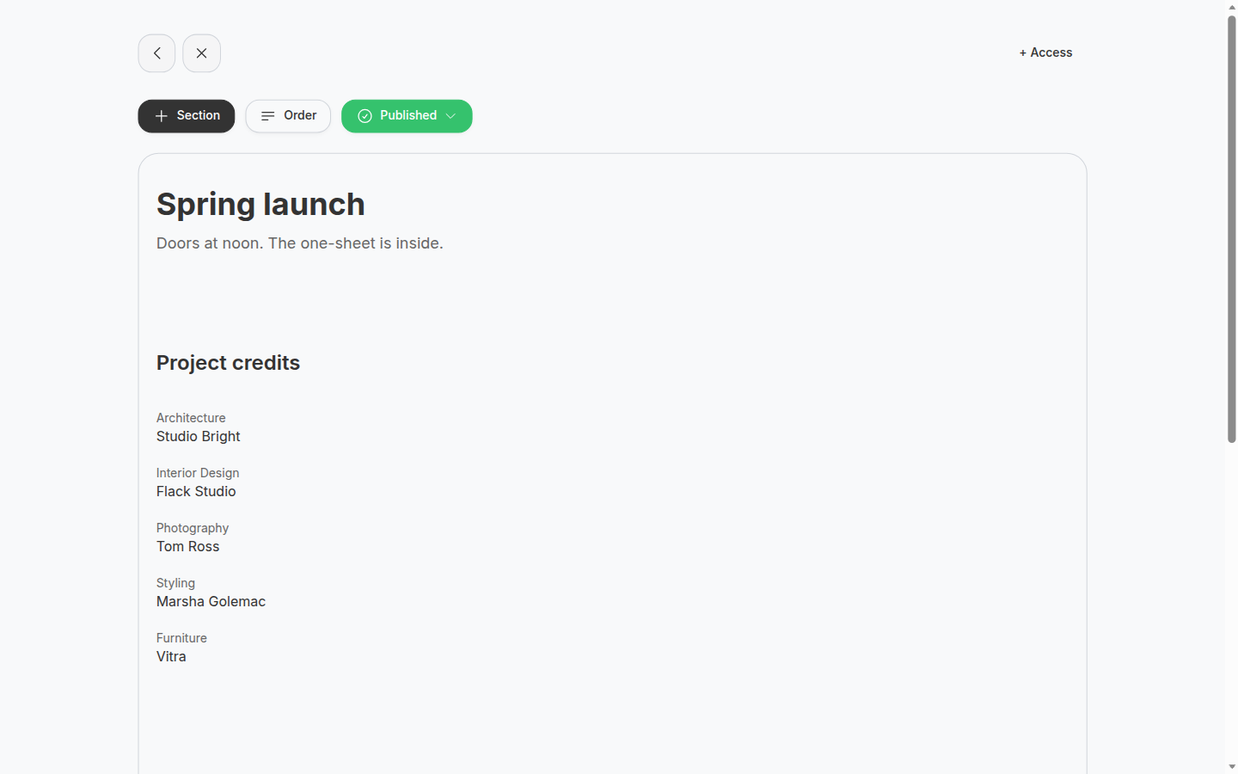
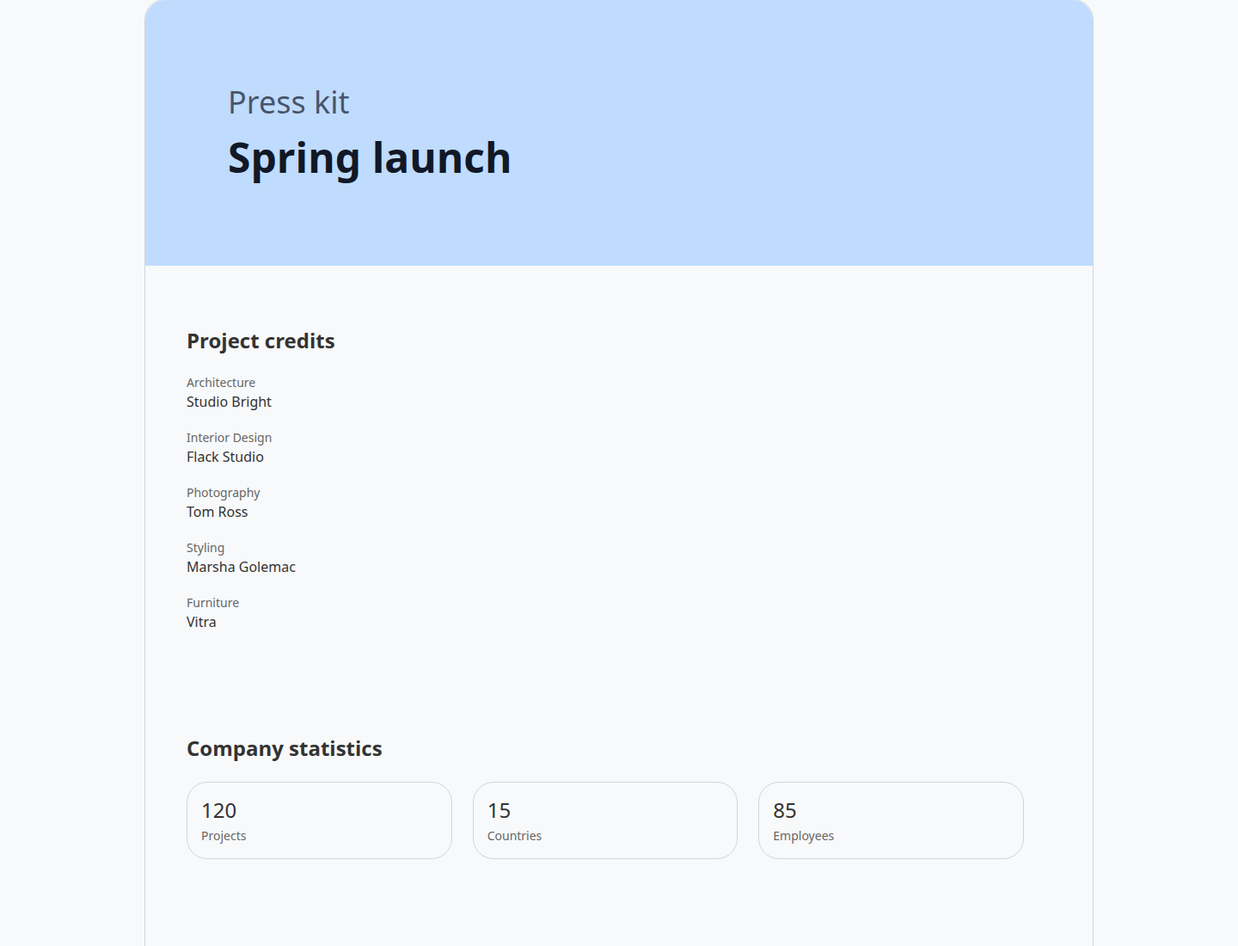
Kit header restyle: padding height, Press kit eyebrow (0.28.0)
Hero height from padding, Press kit eyebrow, no subtitle on the band. Flatpack 0.1.224.

diff --git a/test/recording_studio_presskits_test.rb b/test/recording_studio_presskits_test.rb
@@ -4,7 +4,7 @@ require "test_helper"
 
 class RecordingStudioPresskitsTest < Minitest::Test
   def test_version_matches_release
-    assert_equal "0.27.0", ::RecordingStudioPresskits::VERSION
+    assert_equal "0.28.0", ::RecordingStudioPresskits::VERSION
   end
 
   def test_engine_and_dummy_keep_header_text_title_and_images_heading_migrations
@@ -47,7 +47,7 @@ class RecordingStudioPresskitsTest < Minitest::Test
     assert_includes gemspec, 'spec.add_dependency "recording_studio_orderable", "~> 0.2"'
     assert_includes gemspec, 'spec.add_dependency "recording_studio_trashable", "~> 0.6"'
     assert_includes gemspec, 'spec.add_dependency "recording_studio_duplicatable", "~> 0.4"'
-    assert_includes gemspec, 'spec.add_dependency "flat_pack", ">= 0.1.223"'
+    assert_includes gemspec, 'spec.add_dependency "flat_pack", ">= 0.1.224"'
     assert_includes gemspec, 'spec.add_dependency "recording_studio_publishable", "~> 0.6"'
     assert_includes gemspec, 'spec.add_dependency "recording_studio_attachable", "~> 0.13"'
     assert_includes gemspec, 'spec.add_dependency "recording_studio_external_embed", "~> 0.1.1"'
@@ -63,7 +63,7 @@ class RecordingStudioPresskitsTest < Minitest::Test
     assert_includes gemfile, 'github: "bowerbird-app/RecordingStudio_accessible", tag: "v0.13.0"'
     assert_includes gemfile, 'github: "bowerbird-app/RecordingStudio_admin", tag: "v2.1.0"'
     assert_includes gemfile, 'github: "bowerbird-app/RecordingStudio_root_switchable", tag: "v0.6.0"'
-    assert_includes gemfile, 'github: "bowerbird-app/flatpack", tag: "v0.1.223"'
+    assert_includes gemfile, 'github: "bowerbird-app/flatpack", tag: "v0.1.224"'
     assert_includes gemfile, 'github: "bowerbird-app/RecordingStudio_orderable", tag: "v0.2.7"'
     assert_includes gemfile, 'github: "bowerbird-app/RecordingStudio_trashable", tag: "v0.6.0"'
     assert_includes gemfile, 'github: "bowerbird-app/RecordingStudio_duplicatable", tag: "v0.4.5"'
@@ -270,10 +270,11 @@ class RecordingStudioPresskitsTest < Minitest::Test
     assert_includes readme, "tag: \"v0.2.7\""
     assert_includes readme, "tag: \"v0.6.0\""
     assert_includes readme, "tag: \"v0.4.5\""
-    assert_includes readme, "tag: \"v0.1.223\""
+    assert_includes readme, "tag: \"v0.1.224\""
     assert_includes readme, "tag: \"v0.2.0\""
     assert_includes readme, 'gem "recording_studio_metrics", "~> 0.2"'
-    assert_includes readme, 'gem "flat_pack", ">= 0.1.223"'
+    assert_includes readme, 'gem "flat_pack", ">= 0.1.224"'
+    assert_includes readme, "size: :display"
     assert_includes readme, "FlatPack::Modal::Component"
     assert_includes readme, "navigable: true"
     assert_includes readme, "flat_pack_modal_screen"
@@ -437,19 +438,26 @@ class RecordingStudioPresskitsTest < Minitest::Test
     cover = File.read(File.expand_path("cover/component.rb", components))
     cover_html = File.read(File.expand_path("cover/component.html.erb", components))
     assert_includes cover, "9 / 16"
-    assert_includes cover, "21 / 9"
+    refute_includes cover, "21 / 9"
     assert_includes cover, "aspect-[9/16]"
-    assert_includes cover, "justify-start rounded-none p-8 md:p-12"
+    refute_includes cover, "aspect-[21/9]"
+    assert_includes cover, "justify-start rounded-none p-12 md:p-24"
     refute_includes cover, "justify-end rounded-none"
     assert_includes cover, "hero_copy_classes"
-    assert_includes cover, "max-w-2xl"
+    assert_includes cover, "max-w-3xl"
+    assert_includes cover, "recording_studio_presskits.cover.eyebrow"
     assert_includes cover_html, "<% if hero? %>"
     refute_includes cover_html.split("<% else %>").first, "FlatPack::Card::Component"
     assert_includes cover_html.split("<% else %>").first, "FlatPack::PageTitle::Component"
     assert_includes cover_html.split("<% else %>").first, "size: :display"
+    refute_includes cover_html.split("<% else %>").first, "subtitle: description"
+    assert_includes cover_html.split("<% else %>").first, "data-cover-eyebrow"
+    refute_includes cover_html.split("<% else %>").first, "--hero-headline-size"
     assert_includes cover_html, "hero_copy_classes"
     assert_includes cover_html, "--page-title-h1-size"
-    assert_includes cover_html, "variant: heading_variant"
+    locales = File.read(File.expand_path("../config/locales/recording_studio_presskits.en.yml", __dir__))
+    assert_includes locales, "cover:"
+    assert_includes locales, 'eyebrow: "Press kit"'
     refute_includes index, "card.media"
     refute_includes index, 'name: "photo"'
     refute_includes index, "presskits_cover_url_for"

diff --git a/test/dummy/test/integration/press_kit_cover_test.rb b/test/dummy/test/integration/press_kit_cover_test.rb
@@ -242,8 +242,9 @@ class PressKitCoverTest < ActionDispatch::IntegrationTest
     assert_select "#presskits-cover-hero h1", text: "Spring launch"
     assert_select "#presskits-cover-hero[data-cover-color='#059669']"
     assert_select "#presskits-cover-hero[data-cover-text-color='#111827']"
-    assert_select "#presskits-cover-hero[data-cover-ratio='21 / 9']"
-    assert_includes response.body, "Doors at noon."
+    assert_select "#presskits-cover-hero[data-cover-ratio='auto']"
+    assert_select "#presskits-cover-hero [data-cover-eyebrow]", text: "Press kit"
+    refute_includes css_select("#presskits-cover-hero").first.to_html, "Doors at noon."
     public_preview = css_select("#presskits-public-preview").first
     assert_includes public_preview["class"], "overflow-hidden"
     assert_includes public_preview["class"], "rounded-[var(--radius-lg)]"
@@ -251,14 +252,19 @@ class PressKitCoverTest < ActionDispatch::IntegrationTest
     assert_includes public_hero["class"], "rounded-none"
     assert_includes public_hero["class"], "justify-start"
     refute_includes public_hero["class"], "justify-end"
-    assert_includes public_hero["class"], "p-8"
-    assert_includes public_hero["class"], "md:p-12"
+    refute_includes public_hero["class"], "aspect-[21/9]"
+    assert_includes public_hero["class"], "p-12"
+    assert_includes public_hero["class"], "md:p-24"
     public_title = css_select("#presskits-cover-hero h1").first
     assert_includes public_title["class"], "fp-display"
     assert_includes public_title["class"], "fp-text-balance"
     assert_includes public_title["style"].to_s, "--display-size"
-    assert_includes css_select("#presskits-cover-hero > div").first["class"], "max-w-2xl"
-    assert_includes css_select("#presskits-cover-hero p").first["class"], "fp-text-pretty"
+    refute_includes public_title["style"].to_s, "--hero-headline-size"
+    refute_includes public_title["style"].to_s, "--page-title-h1-size"
+    assert_includes css_select("#presskits-cover-hero > div").first["class"], "max-w-3xl"
+    eyebrow = css_select("#presskits-cover-hero [data-cover-eyebrow]").first
+    assert_includes eyebrow["class"], "md:text-4xl"
+    assert_includes eyebrow["style"].to_s, "70%"
     public_sections = css_select("#presskits-public-sections").first
     refute_includes public_sections["class"], "gap-6"
     refute_includes public_sections["class"], "p-5"
@@ -274,10 +280,23 @@ class PressKitCoverTest < ActionDispatch::IntegrationTest
     assert_select "#presskits-cover-hero h1", text: "Spring launch"
     assert_select "#presskits-cover-hero[data-cover-color='#059669']"
     assert_select "#presskits-cover-hero[data-cover-text-color='#111827']"
-    assert_select "#presskits-cover-hero[data-cover-ratio='21 / 9']"
+    assert_select "#presskits-cover-hero[data-cover-ratio='auto']"
     preview = css_select("#presskits-public-preview").first
     assert_includes preview["class"], "overflow-hidden"
     assert_includes preview["class"], "rounded-[var(--radius-lg)]"
+  end
+
+  test "hosts can override the hero eyebrow" do
+    I18n.t("recording_studio_presskits.cover.eyebrow")
+    I18n.backend.store_translations(:en, recording_studio_presskits: { cover: { eyebrow: "Media kit" } })
+    kit = record_kit("Spring launch")
+    publish_kit!(kit)
+
+    get kit.publishable_public_path
+    assert_response :success
+    assert_select "#presskits-cover-hero [data-cover-eyebrow]", text: "Media kit"
+  ensure
+    I18n.backend.store_translations(:en, recording_studio_presskits: { cover: { eyebrow: "Press kit" } })
   end
 
   test "press kit payload reads resolved cover fields" do

diff --git a/test/dummy/test/integration/press_kit_publishable_test.rb b/test/dummy/test/integration/press_kit_publishable_test.rb
@@ -103,7 +103,7 @@ class PressKitPublishableTest < ActionDispatch::IntegrationTest
     refute_includes response.body, "See it live"
   end
 
-  test "public page and owner preview show a short description under the title" do
+  test "public page and owner preview show the eyebrow above the title" do
     kit = record_kit("Spring launch")
     @root.revise(kit) { |press_kit| press_kit.description = "Doors at noon." }
     kit.reload
@@ -115,9 +115,11 @@ class PressKitPublishableTest < ActionDispatch::IntegrationTest
     assert_blank_public_layout
     assert_select "#presskits-cover-hero h1", text: "Spring launch"
     assert_select "#presskits-cover-hero[data-cover-color='#1F2937']"
-    assert_includes css_select("#presskits-cover-hero").first.to_html, "Doors at noon."
-    assert_operator response.body.index("Spring launch"), :<, response.body.index("Doors at noon.")
-    assert_operator response.body.index("Doors at noon."), :<, response.body.index("Hero")
+    assert_select "#presskits-cover-hero [data-cover-eyebrow]", text: "Press kit"
+    refute_includes css_select("#presskits-cover-hero").first.to_html, "Doors at noon."
+    hero_html = css_select("#presskits-cover-hero").first.to_html
+    assert_operator hero_html.index("Press kit"), :<, hero_html.index("Spring launch")
+    assert_operator response.body.index("Spring launch"), :<, response.body.index("Hero")
 
     sign_in @user
     switch_to_root(@root)
@@ -125,7 +127,8 @@ class PressKitPublishableTest < ActionDispatch::IntegrationTest
     assert_response :success
     assert_rounded_default_layout
     assert_select "#presskits-cover-hero h1", text: "Spring launch"
-    assert_includes response.body, "Doors at noon."
+    assert_select "#presskits-cover-hero [data-cover-eyebrow]", text: "Press kit"
+    refute_includes css_select("#presskits-cover-hero").first.to_html, "Doors at noon."
     assert_includes response.body, "Hero"
   end
 

diff --git a/test/dummy/test/integration/press_kit_ui_test.rb b/test/dummy/test/integration/press_kit_ui_test.rb
@@ -819,7 +819,8 @@ class PressKitUiTest < ActionDispatch::IntegrationTest
     get recording_studio_presskits.edit_press_kit_path(kit)
     assert_response :success
     assert_select "h1", text: "Spring launch, take two"
-    assert_select "#presskits-kit-header", text: /Doors at noon/
+    assert_select "#presskits-kit-header [data-cover-eyebrow]", text: "Press kit"
+    refute_includes css_select("#presskits-kit-header").text, "Doors at noon"
     assert_select "#presskits-editor-preview", count: 1
     assert_select "#presskits-kit-header input", count: 0
   end
@@ -905,7 +906,7 @@ class PressKitUiTest < ActionDispatch::IntegrationTest
     assert_response :not_found
   end
 
-  test "a short description previews above the sections" do
+  test "the live header keeps the short description off the colour band" do
     kit = record_kit("Spring launch")
     @root.revise(kit) { |press_kit| press_kit.description = "Doors at noon." }
     record_block(kit, "Hero")
@@ -914,10 +915,11 @@ class PressKitUiTest < ActionDispatch::IntegrationTest
 
     get recording_studio_presskits.edit_press_kit_path(kit)
     assert_response :success
-    assert_select "#presskits-kit-header", text: /Doors at noon/
-    preview = css_select("#presskits-editor-preview").first
-    assert_operator preview.text.index("Doors at noon."), :<, preview.text.index("Hero")
+    assert_equal "Doors at noon.", kit.reload.recordable.description
+    assert_select "#presskits-kit-header [data-cover-eyebrow]", text: "Press kit"
+    refute_includes css_select("#presskits-kit-header").text, "Doors at noon"
     refute_includes css_select("#presskits-section-list").to_html, "Doors at noon."
+    assert_select "#presskits-editor-preview", text: /Hero/
   end
 
   test "unauthenticated visitors are sent to sign in" do

diff --git a/app/components/recording_studio_presskits/cover/component.rb b/app/components/recording_studio_presskits/cover/component.rb
@@ -70,13 +70,26 @@ module RecordingStudioPresskits
       end
 
       def cover_ratio
-        hero? ? "21 / 9" : "9 / 16"
+        hero? ? "auto" : "9 / 16"
+      end
+
+      def eyebrow
+        I18n.t("recording_studio_presskits.cover.eyebrow")
+      end
+
+      def eyebrow_classes
+        # Tailwind scans these literals: "text-3xl" "text-4xl"
+        "font-normal leading-tight text-3xl md:text-4xl"
+      end
+
+      def eyebrow_style
+        "color: color-mix(in oklab, #{text_color} 70%, transparent);"
       end
 
       def surface_classes
-        # Tailwind scans these literals: "aspect-[9/16]" "aspect-[21/9]" "max-w-xs" "justify-start" "max-w-2xl"
+        # Tailwind scans these literals: "aspect-[9/16]" "max-w-xs" "justify-start" "max-w-3xl" "p-12" "md:p-24"
         if hero?
-          "flex aspect-[21/9] min-h-64 w-full flex-col justify-start rounded-none p-8 md:p-12"
+          "flex w-full flex-col justify-start rounded-none p-12 md:p-24"
         elsif preview?
           "flex aspect-[9/16] w-full flex-col justify-end p-6"
         else
@@ -85,7 +98,7 @@ module RecordingStudioPresskits
       end
 
       def hero_copy_classes
-        "max-w-2xl"
+        "flex max-w-3xl flex-col gap-3"
       end
 
       def wrapper_classes
@@ -93,7 +106,9 @@ module RecordingStudioPresskits
       end
 
       def surface_style
-        "background-color: #{cover_color}; color: #{text_color}; aspect-ratio: #{cover_ratio};"
+        rules = ["background-color: #{cover_color}", "color: #{text_color}"]
+        rules << "aspect-ratio: #{cover_ratio}" unless hero?
+        "#{rules.join('; ')};"
       end
 
       def wrapper_id

diff --git a/test/dummy/test/integration/kit_editor_preview_test.rb b/test/dummy/test/integration/kit_editor_preview_test.rb
@@ -61,15 +61,16 @@ class KitEditorPreviewTest < ActionDispatch::IntegrationTest
     assert_includes hero["class"], "rounded-none"
     assert_includes hero["class"], "justify-start"
     refute_includes hero["class"], "justify-end"
-    assert_includes hero["class"], "p-8"
-    assert_includes hero["class"], "md:p-12"
+    refute_includes hero["class"], "aspect-[21/9]"
+    assert_includes hero["class"], "p-12"
+    assert_includes hero["class"], "md:p-24"
     hero_title = css_select("#presskits-cover-hero h1").first
     assert_includes hero_title["class"], "fp-display"
     assert_includes hero_title["class"], "fp-text-balance"
     assert_includes hero_title["style"].to_s, "--display-size"
-    assert_includes hero_title["style"].to_s, "--display-tracking"
-    assert_includes hero_title["style"].to_s, "--display-leading"
-    assert_includes css_select("#presskits-cover-hero > div").first["class"], "max-w-2xl"
+    refute_includes hero_title["style"].to_s, "--hero-headline-size"
+    assert_includes css_select("#presskits-cover-hero > div").first["class"], "max-w-3xl"
+    assert_select "#presskits-cover-hero [data-cover-eyebrow]", text: "Press kit"
     sections = css_select("#presskits-editor-sections").first
     assert_includes sections["class"], "flex"
     refute_includes sections["class"], "p-5"

diff --git a/lib/recording_studio_presskits/version.rb b/lib/recording_studio_presskits/version.rb
@@ -1,5 +1,5 @@
 # frozen_string_literal: true
 
 module RecordingStudioPresskits
-  VERSION = "0.27.0"
+  VERSION = "0.28.0"
 end

diff --git a/README.md b/README.md
@@ -21,7 +21,7 @@ gem "recording_studio_attachable", github: "bowerbird-app/RecordingStudio_attach
 gem "recording_studio_external_embed", github: "bowerbird-app/RecordingStudio_external_embed", tag: "v0.1.4"
 gem "recording_studio_video", github: "bowerbird-app/RecordingStudio_video", tag: "v0.1.1"
 gem "recording_studio_metrics", github: "bowerbird-app/RecordingStudio_metrics", tag: "v0.2.0"
-gem "flat_pack", github: "bowerbird-app/flatpack", tag: "v0.1.223"
+gem "flat_pack", github: "bowerbird-app/flatpack", tag: "v0.1.224"
 gem "recording_studio_presskits", github: "bowerbird-app/RecordingStudio_presskits"
 ```
 
@@ -38,7 +38,7 @@ gem "recording_studio_attachable", "~> 0.13"
 gem "recording_studio_external_embed", "~> 0.1.1"
 gem "recording_studio_video", "~> 0.1.0"
 gem "recording_studio_metrics", "~> 0.2"
-gem "flat_pack", ">= 0.1.223"
+gem "flat_pack", ">= 0.1.224"
 ```
 
 Then:
@@ -151,7 +151,7 @@ kit_recording.log_event!(action: "noted")
 
 The header is the press kit. `title` is required. `description` is an optional short line, 280 characters at most, and a blank one is stored as nothing. The cover is also on the kit: `cover_style` is `color` for now (`nil` means colour with the default), `cover_color` is a hex string, and `cover_text_color` is an optional hex for the title and description. A blank colour uses `default_cover_color` (`#1F2937`). A blank text colour uses Auto: light or dark, whichever has the better WCAG contrast on that background. Hosts set `cover_colors` and `cover_text_colors` to a palette, or `:any` for any hex. `cover_text_auto` (default true) adds an Auto choice on the header screen. Writes must be a valid hex, and in palette mode they must be one of those colours. A stored colour that later leaves the palette still renders. A low-contrast pair is allowed; the editor may hint. The cover is not a child, so it cannot be trashed or reordered. The kit editor lists Header and links to the header screen, which saves title, description, and cover with `revise`. Creating a kit still sets the title only.
 
-`RecordingStudioPresskits::Cover::Component` is the reusable card. Pass a kit recording or the title, description, colour, and text colour. Sizes are `:card` (9/16 story tile, title overlaid, description clamped to two lines), `:preview` (same story shape in the header editor), and `:hero` (full-width 21/9 band at the top of the public kit and the live editor). A 9/16 hero at full kit width would bury the sections under a storey of colour, so the public page stays wide. Hero copy sits at the top of that band (`justify-start`) with `p-8 md:p-12` as the inset. The title is `FlatPack::PageTitle::Component` with `size: :display` and the cover text colours, wrapped in `max-w-2xl`. Display uses `--display-size` (about 48px on a phone to 72px on a desktop), `--display-tracking`, and `--display-leading`. The description keeps `fp-text-pretty`. The band stays 21/9 with `min-h-64` so the colour field remains a masthead under the type. Grid cards share the 9/16 height and keep the page-title size token. Text colour is the chosen hex, or Auto.
+`RecordingStudioPresskits::Cover::Component` is the reusable card. Pass a kit recording or the title, description, colour, and text colour. Sizes are `:card` (9/16 story tile, title overlaid, description clamped to two lines), `:preview` (same story shape in the header editor), and `:hero` (full-width colour header at the top of the public kit and the live editor). Hero height comes from padding plus content (`p-12` on a phone, `md:p-24` on a desktop), not a fixed ratio. A muted **Press kit** eyebrow sits above the title (`recording_studio_presskits.cover.eyebrow`). The title is `FlatPack::PageTitle::Component` with `size: :display`, top-left, wrapping in `max-w-3xl`. The hero does not show the short description; cards and the header editor still do. Grid cards stay 9/16. Text colour is the chosen hex, or Auto.
 
 Create a section with `RecordingStudioPresskits.create_section!`. That call records a kit section under the kit, then records the chosen content type under the kit section, in one transaction. A failed content write leaves no kit section behind. Title and subtitle belong to the kit section. A content default belongs to the registered `prepare` hook.
 
@@ -262,7 +262,7 @@ Primary buttons: **Presskit** (Heroicons plus) on the index, **Create** on the n
 
 ## Public
 
-A live kit is readable without signing in. Publishable serves `/published/:uuid/:slug` (override the path only if it still includes `:uuid`). `.to` sets `public_layout: "recording_studio_presskits/blank"`. That layout is a document and the kit: no back, no close, and no TopNav. The page title is the kit name. The kit opens inside the same Flatpack Card as the editor. `Cover::Component` at `:hero` is a flush 21/9 colour band to the card's top and side edges. Title and description sit at the top with `p-8 md:p-12` as `PageTitle` `size: :display` in a `max-w-2xl` block. View and the publish menu Preview both use it. Owner preview stays on `recording_studio/default_layout`.
+A live kit is readable without signing in. Publishable serves `/published/:uuid/:slug` (override the path only if it still includes `:uuid`). `.to` sets `public_layout: "recording_studio_presskits/blank"`. That layout is a document and the kit: no back, no close, and no TopNav. The page title is the kit name. The kit opens inside the same Flatpack Card as the editor. `Cover::Component` at `:hero` is a flush colour header to the card's top and side edges. Height comes from `p-12 md:p-24` plus the eyebrow and title. The title is `PageTitle` `size: :display` in a wrapping `max-w-3xl` block. The short description stays off that band. View and the publish menu Preview both use it. Owner preview stays on `recording_studio/default_layout`.
 
 Logged-out visitors get a 404 for a kit that is not currently published. An authenticated owner can still open the owner preview on the default layout.
 
@@ -311,7 +311,7 @@ Dummy kit pins:
 | Accessible | `v0.13.0` |
 | Admin | `v2.1.0` |
 | Root Switchable | `v0.6.0` |
-| FlatPack | `v0.1.223` |
+| FlatPack | `v0.1.224` |
 | Attachable | `v0.13.0` |
 | Orderable | `v0.2.7` |
 | Trashable | `v0.6.0` |
@@ -323,7 +323,7 @@ Dummy kit pins:
 
 Authenticated dummy screens keep `RecordingStudio::UsesDefaultLayout`. Core 4.4 puts `data-theme` on `<body>`; dummy overrides `layouts/recording_studio/default_layout` so `<html data-theme="rounded">` wraps index, the kit editor, owner preview, and Admin. That is Flatpack's built-in rounded theme from `flat_pack/variables` — not a custom theme. The override also links `flat_pack/application`, which paints primary and default buttons. The sign-in layout and the public blank layout link that sheet too. The same override passes Flatpack `anchor_href` for the close X. The layout draws one back control. A screen that sets a back URL gets that link. A screen that does not gets PageNav's history button. Core still stores the close path in `page_nav_anchor_url` and the back path in `page_nav_back_url`. After sign-in, `/` redirects to the press kit index. Dummy Tailwind scans FlatPack, Recording Studio, Admin, Publishable, Attachable, and this gem so that layout is not an unstyled box.
 
-The public kit view uses `recording_studio_presskits/blank` instead. Do not use Publishable's empty TopNav there. Do not insert Sign in, Sign out, or Root Switchable into PageNav. Core owns back and close on the default layout. **+ Access** is in the slot on the kit editor only. Cards, table, the kit editor, the header screen, public show, owner preview, and Admin live in `docs/dummy-screenshots/`. After seed: `press-kit-index-cards.png`, `press-kit-index-table.png`, `workspace-kit-edit.png`, `workspace-heading-edit.png`, `workspace-content-edit.png`, `workspace-fact-drilldown.png`, `workspace-header-edit.png`, `workspace-kit-show.png`, `public-press-kit-show.png` (logged-out Spring launch), `owner-preview-unpublished.png` (owner preview of Autumn recap), and `admin-press-kits.png` (live vs not-live). Do not recapture dummy home.
+The public kit view uses `recording_studio_presskits/blank` instead. Do not use Publishable's empty TopNav there. Do not insert Sign in, Sign out, or Root Switchable into PageNav. Core owns back and close on the default layout. **+ Access** is in the slot on the kit editor only. Cards, table, the kit editor, the header screen, public show, owner preview, and Admin live in `docs/dummy-screenshots/`. After seed: `press-kit-index-cards.png`, `press-kit-index-table.png`, `workspace-kit-edit.png`, `workspace-kit-edit-mobile.png`, `workspace-heading-edit.png`, `workspace-content-edit.png`, `workspace-fact-drilldown.png`, `workspace-header-edit.png`, `workspace-kit-show.png`, `public-press-kit-show.png` and `public-press-kit-show-mobile.png` (logged-out Spring launch), `hero-restyle-editor-desktop.png` / `hero-restyle-public-desktop.png` plus mobile and crop companions, `owner-preview-unpublished.png` (owner preview of Autumn recap), and `admin-press-kits.png` (live vs not-live). Do not recapture dummy home.
 
 ```bash
 cd test/dummy

diff --git a/test/dummy/README.md b/test/dummy/README.md
@@ -10,8 +10,8 @@ This Rails app exists to prove Recording Studio Press Kits in a real host. It is
 - Orderable, Trashable, Duplicatable, and Publishable install, migrations, and mounts
 - Recording Studio Admin 2.0 mounted under an admin root, with Accessible grants for the seeded admin
 - Authenticated `/` redirects to the press kit index on Recording Studio's default layout
-- Cards and table views of kits, inside a sidebar. The heading is **My presskits**. **Presskit** with a Heroicons plus icon is first and left. Cards vs table is icon-only Flatpack ButtonGroup. Library is a collapsible group in the sidebar, and Credits is the link under it. Cards are `Cover::Component` at `:card`: a 9/16 colour tile with a large title on the colour. A short description, when present, clamps to two lines. Cards stay the same height. Cards and the table open the kit editor. That page is the live kit, full width, inside a card. The kit header is the colour cover. A slim toolbar holds Section, Order, and the publish control. The colour cover bleeds to the kit card: flush top and sides, no inner rounding, clipped by the card radius. Title and description sit at the top of the hero with the existing inset; the title is PageTitle display size. The card has no inner section pad or gap. Each section owns `p-8 md:p-10 lg:p-12`; hover tint is flush to the card sides with square corners. Phone padding stays `p-8`. Header hover is an overlay on the cover, not a surrounding tint. The plus FAB uses `offset: "1rem"` and sits inside the cover on the header. On a phone, a tap makes that region active and shows the plus FAB. Tapping another region moves it. Tapping outside clears it. The FAB opens Edit title, Edit content, Reorder, Trash, and Add new section — or Edit heading and Cover colours on the header. Those editors open one navigable Flatpack modal (`pk-editor`). The header modal has Title, Short description, Colour, and Text colour. Palette colours are round Flatpack swatches. Auto sits beside the text-colour swatches. A live cover preview follows those picks. Child items such as facts and quotes push further screens in that modal. Section opens a list of types and creates the chosen block at once. Empty sections show an Add placeholder. Order opens Reorder, which drags through Orderable. There is no in-page View or Preview button. Publishable's menu still has View and Preview
-- Logged-out public show of a live kit on the blank public layout (no page nav). The kit opens inside the same card as the editor. `Cover::Component` at `:hero` is a flush 21/9 colour band to the card's top and side edges. Title and description sit at the top as PageTitle display size in a wrapping block
+- Cards and table views of kits, inside a sidebar. The heading is **My presskits**. **Presskit** with a Heroicons plus icon is first and left. Cards vs table is icon-only Flatpack ButtonGroup. Library is a collapsible group in the sidebar, and Credits is the link under it. Cards are `Cover::Component` at `:card`: a 9/16 colour tile with a large title on the colour. A short description, when present, clamps to two lines. Cards stay the same height. Cards and the table open the kit editor. That page is the live kit, full width, inside a card. The kit header is the colour cover. A slim toolbar holds Section, Order, and the publish control. The colour cover bleeds to the kit card: flush top and sides, no inner rounding, clipped by the card radius. Height comes from `p-12 md:p-24` plus a muted Press kit eyebrow and a wrapping `PageTitle` `size: :display` title. The short description stays on the header form, not on the hero. The card has no inner section pad or gap. Each section owns `p-8 md:p-10 lg:p-12`; hover tint is flush to the card sides with square corners. Phone padding stays `p-8`. Header hover is an overlay on the cover, not a surrounding tint. The plus FAB uses `offset: "1rem"` and sits inside the cover on the header. On a phone, a tap makes that region active and shows the plus FAB. Tapping another region moves it. Tapping outside clears it. The FAB opens Edit title, Edit content, Reorder, Trash, and Add new section — or Edit heading and Cover colours on the header. Those editors open one navigable Flatpack modal (`pk-editor`). The header modal has Title, Short description, Colour, and Text colour. Palette colours are round Flatpack swatches. Auto sits beside the text-colour swatches. A live cover preview follows those picks. Child items such as facts and quotes push further screens in that modal. Section opens a list of types and creates the chosen block at once. Empty sections show an Add placeholder. Order opens Reorder, which drags through Orderable. There is no in-page View or Preview button. Publishable's menu still has View and Preview
+- Logged-out public show of a live kit on the blank public layout (no page nav). The kit opens inside the same card as the editor. `Cover::Component` at `:hero` is a flush colour header to the card's top and side edges. Height comes from padding plus a muted Press kit eyebrow and a wrapping `PageTitle` `size: :display` title. The short description stays off that band
 - Owner preview of a kit that is not live, on the default layout. **+ Access** is on the kit editor only
 - Section offers Text, Images, Quotes, Credits, and Video, each with a Heroicon and a short line on why that block helps a press kit. Heading editing is one shared screen titled Section heading: Title, Subtitle, and Update. A new section starts with that type's label as the title. Content editors only edit their own data. Body has its own Update. A Credits section uses a collection editor to search for a credit or create one, and to set that credit's role on the kit. Video opens a screen for one video link. YouTube ships with External Embed. Press Kits does not register Vimeo. The Text field is the FlatPack content editor. Dummy FakeBlock is a registered section that stays off the add list
 - Mounted `RecordingStudio::Engine` route behavior inside a host app

diff --git a/CHANGELOG.md b/CHANGELOG.md
@@ -7,6 +7,18 @@ and this project adheres to [Semantic Versioning](https://semver.org/spec/v2.0.0
 
 ## [Unreleased]
 
+## [0.28.0] - 2026-10-10
+
+### Changed
+- The `:hero` cover no longer uses a fixed 21/9 band. Height comes from padding plus content: `p-12` on a phone and `md:p-24` (~96px) on a desktop. Grid `:card` and header-editor `:preview` stay 9/16.
+- A muted **Press kit** eyebrow sits above the title (`recording_studio_presskits.cover.eyebrow`). Hosts override that i18n key. Size is `text-3xl` / `md:text-4xl` (~36px desktop). Colour is `color-mix` at 70% of the cover text colour. Flatpack `PageTitle` has no eyebrow slot, so this is a semantic `<p>` with those tokens.
+- The hero no longer shows the kit short description. The field, column, header editor, API payload, and 9/16 cards keep it.
+- Hero title is `FlatPack::PageTitle::Component` with `size: :display`, top-left, wrapping in `max-w-3xl`. Display uses `--display-size` (`clamp` 48px to 88px), `--display-leading` `1.05`, `--display-tracking` `-0.03em`, and `--display-weight` `600`. Flatpack is `>= 0.1.224` (dummy tag `v0.1.224`).
+- Version `0.28.0`
+
+### Upgrade notes
+- Bump Flatpack to `>= 0.1.224` and rebuild Tailwind so `text-8xl` generates. Reload Flatpack CSS for the 88px `--display-size` clamp. Hosts that replaced `Cover::Component` at `:hero` should drop `aspect-[21/9]` / `min-h-64`, use `p-12 md:p-24`, render the i18n eyebrow above `PageTitle` `size: :display` (no subtitle on the band), and keep the short description on the header form and on cards.
+
 ## [0.27.0] - 2026-10-10
 
 ### Changed
@@ -638,7 +650,8 @@ Addon starting point on Recording Studio 4.x, before this repo became Press Kits
 - Comprehensive README and documentation
 - Basic test suite with Minitest
 
-[Unreleased]: https://github.com/bowerbird-app/RecordingStudio_presskits/compare/v0.27.0...HEAD
+[Unreleased]: https://github.com/bowerbird-app/RecordingStudio_presskits/compare/v0.28.0...HEAD
+[0.28.0]: https://github.com/bowerbird-app/RecordingStudio_presskits/compare/v0.27.0...v0.28.0
 [0.27.0]: https://github.com/bowerbird-app/RecordingStudio_presskits/compare/v0.26.1...v0.27.0
 [0.26.1]: https://github.com/bowerbird-app/RecordingStudio_presskits/compare/v0.26.0...v0.26.1
 [0.26.0]: https://github.com/bowerbird-app/RecordingStudio_presskits/compare/v0.25.0...v0.26.0

diff --git a/MIGRATION_NOTES.md b/MIGRATION_NOTES.md
@@ -1,5 +1,15 @@
 # Upgrade notes
 
+## 0.28.0
+
+The `:hero` cover is still a flush colour surface to the kit card's top and side edges. Height now comes from padding plus content: `p-12` on a phone, `md:p-24` (~96px) on a desktop. There is no 21/9 ratio and no `min-h-64`. Grid `:card` and the header-editor `:preview` stay 9/16.
+
+A muted **Press kit** eyebrow sits above the title. The copy is `I18n.t("recording_studio_presskits.cover.eyebrow")` so a host can override it. Size is `text-3xl` / `md:text-4xl`. Colour is `color-mix(in oklab, <text colour> 70%, transparent)`. Flatpack `PageTitle` has no eyebrow or kicker slot, so the hero renders a semantic `<p>` with those tokens rather than a custom component.
+
+The hero does not show the kit short description. Keep the field on the header screen, in the table, on the API payload, and on 9/16 cards. Title stays top-left and wraps as `FlatPack::PageTitle::Component` with `size: :display` in a `max-w-3xl` block. Display uses `--display-size` (`clamp` 48px to 88px), `--display-leading` `1.05`, `--display-tracking` `-0.03em`, and `--display-weight` `600`.
+
+Bump Flatpack to `>= 0.1.224` (dummy tag `v0.1.224`) and rebuild Tailwind so `p-24`, `text-3xl`, `text-4xl`, and `text-8xl` generate. Reload Flatpack CSS for the 88px display clamp. Hosts that replaced `Cover::Component` should match this hero: no fixed ratio, eyebrow above `PageTitle` `size: :display`, no subtitle on the band.
+
 ## 0.26.0
 
 The kit editor preview matches the public kit. In-flow **Edit heading**, **Edit content**, and the compact add-section dropdown are gone. On a pointer that can hover, hover or focus-within tints the region with `--surface-muted-background-color` and shows the FAB. Keyboard users get a `:focus-visible` outline and still see the FAB. On touch, the FAB is not always visible. A tap makes that section or the header the active region (tint and FAB). Tapping another region moves the active state. Tapping outside clears it.
